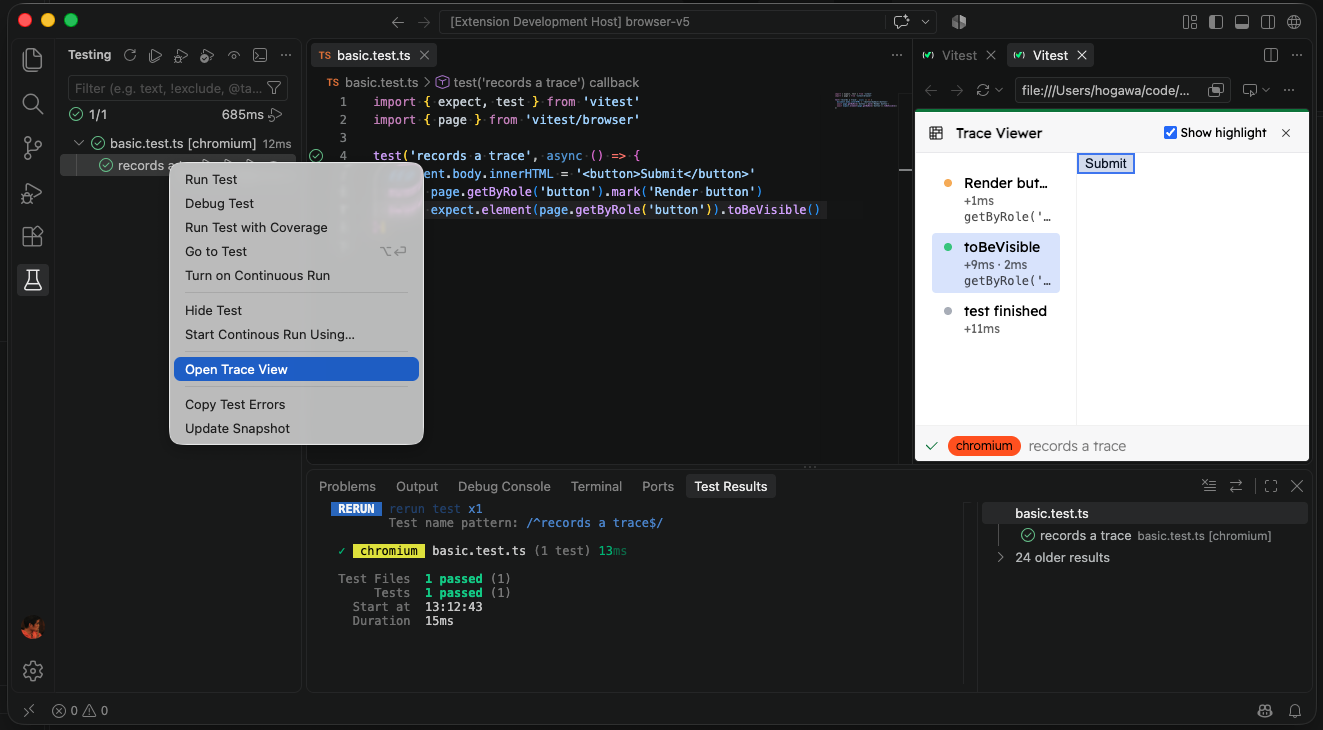
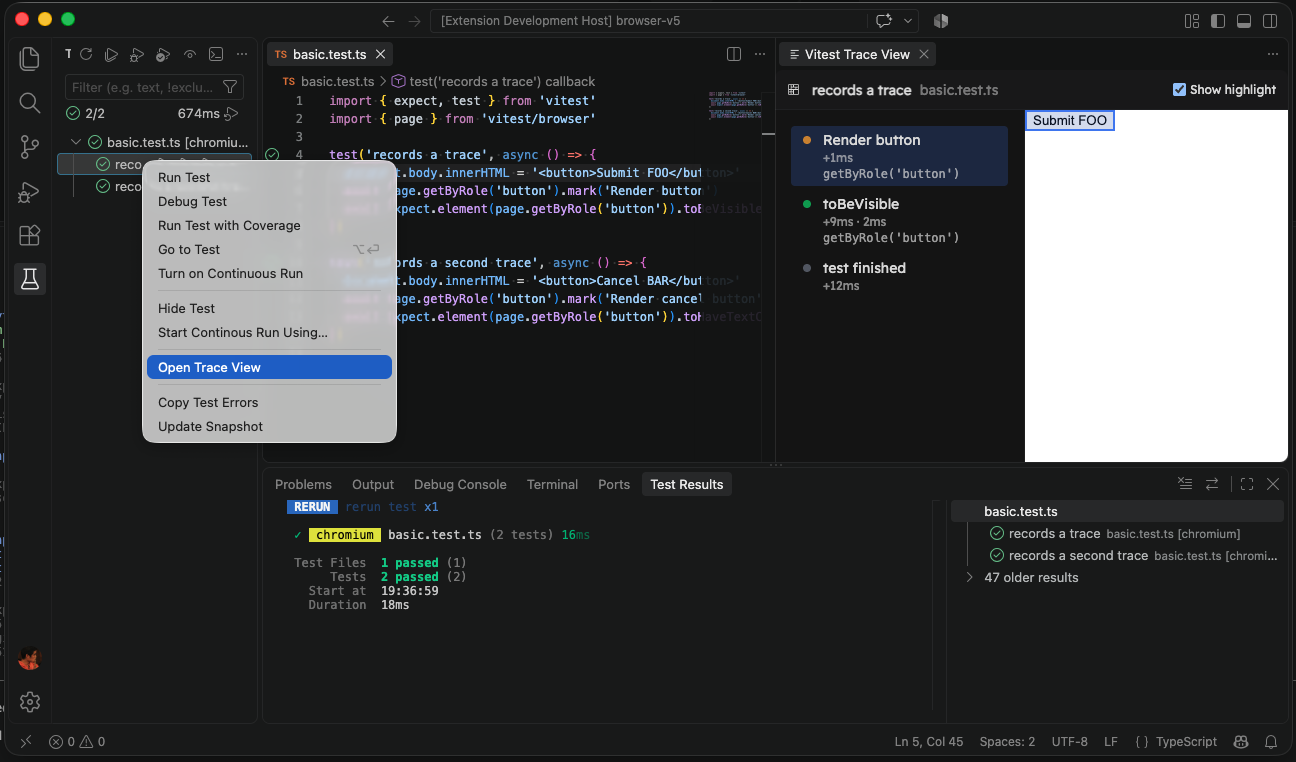
feat: open trace view in extension managed webview  (#819)
* feat: prototype reusable trace webview

* refactor: simplify trace webview navigation

* fix: preserve trace webview origin and allow Google Fonts

* fix: select available traces when refreshing the report

* fix: preserve trace step when refreshing the same test

* docs: simplify trace view description

* docs: remove trace webview prototype note

* fix: remove trace webview padding

* fix: restore light trace background

* feat: use focused trace layout

* docs: update trace view screenshot

* fix: preserve trace attempt on refresh

* refactor: extract trace webview HTML transform

* refactor: build trace selection hash directly

* refactor: remove trace metadata cache busting

* docs: clarify trace metadata URL comment

* docs: clarify trace asset URL comment

* refactor: extract trace webview CSP string

* refactor: inline webview CSP source

* refactor: extract trace webview CSS string

* refactor: extract trace webview bootstrap

* nit

* nit

* refactor: reload webview when opening traces

* refactor: name debounced trace refresh

* refactor: simplify trace hash serialization

* refactor: clarify trace view URL hash names

* refactor: inline trace URL hash serialization

* nit

* refactor: separate trace reconciliation from refresh

* refactor: reconcile trace target on results update

* refactor: type trace selection message

* refactor: type trace message receiver

* refactor: remove trace message payload validation

* nit
[…]

diff --git a/packages/extension/src/traceView.ts b/packages/extension/src/traceView.ts
@@ -1,5 +1,6 @@
 import type { RunnerTask, RunnerTestFile } from 'vitest'
 import type { TestTree } from './testTree'
+import { randomBytes } from 'node:crypto'
 import * as vscode from 'vscode'
 
 interface TraceViewTarget {
@@ -9,8 +10,32 @@ interface TraceViewTarget {
   testId: string
 }
 
+type TraceSelectionMessage = {
+  type: 'traceSelection'
+  revision: number
+  testId: string | null
+  traceAttempt: string | null
+  traceStep: number
+}
+
+interface TraceViewState {
+  panel: vscode.WebviewPanel
+  target: TraceViewTarget
+  watcher: vscode.FileSystemWatcher
+  traceAttempt?: string
+  traceStep: number
+  refreshTimer?: ReturnType<typeof setTimeout>
+}
+
 export class TraceViewManager {
   private targets = new Map<vscode.TestItem, TraceViewTarget>()
+  private viewState?: TraceViewState
+  // Invalidate older documents on refresh, target changes, and panel disposal.
+  private revision = 0
+
+  dispose() {
+    this.viewState?.panel.dispose()
+  }
 
   clear() {
     this.targets.clear()
@@ -18,13 +43,38 @@ export class TraceViewManager {
   }
 
   async update(apiId: string, reportPath: string, files: RunnerTestFile[], tree: TestTree) {
+    // Remove Open Trace View actions from the previous run of this process.
     for (const [item, target] of this.targets) {
       if (target.apiId === apiId) {
         this.targets.delete(item)
       }
     }
 
-    for (const target of findTraceViewTargets(apiId, reportPath, files)) {
+    // Keep the selected test when available, otherwise follow the first traced test.
+    // HTML report file writes trigger the reload.
+    const targets = findTraceViewTargets(apiId, reportPath, files)
+    const viewState = this.viewState
+    const target =
+      targets.find(
+        (target) =>
+          target.apiId === viewState?.target.apiId && target.testId === viewState.target.testId,
+      ) ?? targets[0]
+    if (viewState && target) {
+      if (viewState.target.reportPath !== target.reportPath) {
+        clearTimeout(viewState.refreshTimer)
+        viewState.watcher.dispose()
+        viewState.watcher = this.watchReport(target.reportPath)
+      }
+      if (viewState.target.apiId !== target.apiId || viewState.target.testId !== target.testId) {
+        this.revision++
+        viewState.target = target
+        viewState.traceAttempt = undefined
+        viewState.traceStep = 0
+      }
+    }
+
+    // Register Open Trace View actions for the latest results.
+    for (const target of targets) {
       const item = tree.getTestItemByTaskId(target.testId)
       if (item) {
         this.targets.set(item, target)
@@ -43,7 +93,9 @@ export class TraceViewManager {
   }
 
   async open(testItem: vscode.TestItem) {
-    const target = this.targets.get(testItem)!
+    // Resolve the requested test and check that its report exists.
+    const target = this.targets.get(testItem)
+    if (!target) return
 
     const reportUri = vscode.Uri.file(target.reportPath)
     try {
@@ -55,16 +107,105 @@ export class TraceViewManager {
       return
     }
 
-    const commands = await vscode.commands.getCommands(true)
-    const url = createTraceViewUrl(target)
-    // The Integrated Browser command is internal; follow Simple Browser's feature detection before using it.
-    // https://github.com/microsoft/vscode/blob/008427a901bf4aa79b47f175ccc8da1731750f78/extensions/simple-browser/src/extension.ts#L15-L35
-    if (commands.includes('workbench.action.browser.open')) {
-      await vscode.commands.executeCommand('workbench.action.browser.open', url)
+    // Create the panel and its listeners on the first open.
+    let viewState = this.viewState
+    if (!viewState) {
+      const panel = vscode.window.createWebviewPanel(
+        'vitest.traceView',
+        'Vitest Trace View',
+        { viewColumn: vscode.ViewColumn.Beside, preserveFocus: true },
+        { enableScripts: true, retainContextWhenHidden: true },
+      )
+      viewState = {
+        panel,
+        target,
+        watcher: this.watchReport(target.reportPath),
+        traceStep: 0,
+      }
+      this.viewState = viewState
+      // Remember attempt and step changes for the next report reload.
+      panel.webview.onDidReceiveMessage((message: TraceSelectionMessage) => {
+        const viewState = this.viewState
+        if (viewState && message.type === 'traceSelection' && message.revision === this.revision) {
+          viewState.traceAttempt = message.traceAttempt ?? undefined
+          viewState.traceStep = message.traceStep
+        }
+      })
+      // Release the watcher and pending reload when the panel closes.
+      panel.onDidDispose(() => {
+        const viewState = this.viewState
+        if (viewState?.panel !== panel) return
+        viewState.watcher.dispose()
+        clearTimeout(viewState.refreshTimer)
+        this.viewState = undefined
+        this.revision++
+      })
     } else {
-      // TODO: Support a single-file fallback because external browsers may block file:// metadata requests.
-      await vscode.env.openExternal(vscode.Uri.parse(url))
+      // Reuse the panel for the requested test with its initial attempt and step.
+      clearTimeout(viewState.refreshTimer)
+      viewState.watcher.dispose()
+      viewState.watcher = this.watchReport(target.reportPath)
+      viewState.target = target
+      viewState.traceAttempt = undefined
+      viewState.traceStep = 0
     }
+    // Explicit opens load immediately. Later report changes reload through the watcher.
+    viewState.panel.reveal(undefined, true)
+    await this.refresh()
+  }
+
+  private watchReport(reportPath: string) {
+    const watcher = vscode.workspace.createFileSystemWatcher(
+      new vscode.RelativePattern(
+        vscode.Uri.joinPath(vscode.Uri.file(reportPath), '..'),
+        '{index.html,ui/html.meta.json.gz}',
+      ),
+    )
+    const debouncedRefresh = () => {
+      const viewState = this.viewState
+      if (viewState?.watcher !== watcher) return
+      clearTimeout(viewState.refreshTimer)
+      viewState.refreshTimer = setTimeout(() => void this.refresh(), 150)
+    }
+    watcher.onDidChange(debouncedRefresh)
+    watcher.onDidCreate(debouncedRefresh)
+    return watcher
+  }
+
+  private async refresh() {
+    // Capture the active view and invalidate older loads.
+    const viewState = this.viewState
+    if (!viewState) return
+    const { panel, target } = viewState
+    const revision = ++this.revision
+
+    // Restore the current test, attempt, and step in the new document.
+    const traceViewUrlHash = createTraceViewUrlHash(
+      target,
+      viewState.traceStep,
+      viewState.traceAttempt,
+    )
+    const reportUri = vscode.Uri.file(target.reportPath)
+    // Read the generated report and discard it if the view changed while loading.
+    let reportHtml: Uint8Array
+    try {
+      reportHtml = await vscode.workspace.fs.readFile(reportUri)
+    } catch (error) {
+      await vscode.window.showWarningMessage(`Failed to load Vitest trace report: ${String(error)}`)
+      return
+    }
+    if (revision !== this.revision) return
+
+    // Adapt report resources and bootstrap code for the webview.
+    const directory = vscode.Uri.joinPath(reportUri, '..')
+    panel.webview.options = { enableScripts: true, localResourceRoots: [directory] }
+    panel.webview.html = transformTraceViewHtml(
+      Buffer.from(reportHtml).toString('utf8'),
+      panel.webview,
+      directory,
+      traceViewUrlHash,
+      revision,
+    )
   }
 }
 
@@ -94,13 +235,102 @@ function findTraceViewTargets(
   return targets
 }
 
-function createTraceViewUrl(target: TraceViewTarget) {
+function createTraceViewUrlHash(target: TraceViewTarget, traceStep = 0, traceAttempt?: string) {
   // https://github.com/vitest-dev/vitest/blob/decfeb61c71a93372f84b6d43893df86a1756308/packages/ui/client/composables/params.ts#L3-L24
   const params = new URLSearchParams({
     file: target.fileId,
+    layout: 'trace',
     view: 'editor',
     test: target.testId,
-    traceStep: '0',
+    traceStep: String(traceStep),
   })
-  return `${vscode.Uri.file(target.reportPath).toString(true)}#/?${params}`
+  if (traceAttempt) {
+    params.set('traceAttempt', traceAttempt)
+  }
+  return `/?${params}`
+}
+
+function transformTraceViewHtml(
+  html: string,
+  webview: vscode.Webview,
+  directory: vscode.Uri,
+  traceViewUrlHash: string,
+  revision: number,
+) {
+  const base = `${webview.asWebviewUri(directory).toString()}/`
+  const nonce = randomBytes(16).toString('hex')
+  const csp = [
+    `default-src 'none'`,
+    `script-src ${webview.cspSource} 'nonce-${nonce}'`,
+    `style-src ${webview.cspSource} https://fonts.googleapis.com 'unsafe-inline'`,
+    `img-src ${webview.cspSource} data: blob: https:`,
+    `font-src ${webview.cspSource} data: https:`,
+    `connect-src ${webview.cspSource}`,
+    `frame-src 'self' blob: data:;`,
+  ].join('; ')
+  // Resolve metadata from the report directory instead of the webview URL.
+  const metadata = webview.asWebviewUri(vscode.Uri.joinPath(directory, 'ui', 'html.meta.json.gz'))
+  html = html.replace(
+    /new URL\("\.\/ui\/html\.meta\.json\.gz", window\.location\.href\)/g,
+    JSON.stringify(metadata.toString()),
+  )
+  // Resolve relative asset URLs from the report directory.
+  html = html.replace(/<(script|link|img|source)\b[^>]*>/gi, (tag) =>
+    tag.replace(/(\s)(src|href)\s*=\s*(['"])(.*?)\3/gi, (attribute, space, name, quote, value) => {
+      if (!value || /^(?:[a-z][a-z\d+.-]*:|\/\/|#)/i.test(value)) return attribute
+      const url = new URL(value.replace(/&amp;/g, '&'), base).href
+      return `${space}${name}=${quote}${url.replace(/&/g, '&amp;').replace(/"/g, '&quot;').replace(/'/g, '&#39;')}${quote}`
+    }),
+  )
+  html = html.replace(/<script\b/g, `<script nonce="${nonce}"`)
+  html = html.replace(
+    /<head\b[^>]*>/i,
+    `$&
+    <meta http-equiv="Content-Security-Policy" content="${csp}">
+    <style>${TRACE_VIEW_CSS}</style>
+    <script nonce="${nonce}">
+      (${initializeTraceView.toString()})(acquireVsCodeApi(), window, ${JSON.stringify(traceViewUrlHash)}, ${revision});
+    </script>`,
+  )
+  return html
+}
+
+const TRACE_VIEW_CSS = `
+  body {
+    padding: 0;
+    color: var(--color-text);
+  }
+  html:not(.dark) {
+    background-color: white;
+    color-scheme: light;
+  }
+`
+
+function initializeTraceView(vscode: any, window: any, traceViewUrlHash: string, revision: number) {
+  const reportSelection = () => {
+    const params = new URLSearchParams(window.location.hash.split('?')[1])
+    const step = params.get('traceStep')
+    if (step !== null) {
+      vscode.postMessage({
+        type: 'traceSelection',
+        revision,
+        testId: params.get('test'),
+        traceAttempt: params.get('traceAttempt'),
+        traceStep: Number(step),
+      } satisfies TraceSelectionMessage)
+    }
+  }
+  // Vitest updates URL parameters through History, which does not
+  // emit hashchange events.
+  for (const method of ['replaceState', 'pushState']) {
+    const original = window.history[method]
+    window.history[method] = function (...args: any[]) {
+      const result = original.apply(this, args)
+      reportSelection()
+      return result
+    }
+  }
+  window.addEventListener('hashchange', reportSelection)
+  window.addEventListener('popstate', reportSelection)
+  window.location.hash = traceViewUrlHash
 }

diff --git a/samples/browser-v5/basic.test.ts b/samples/browser-v5/basic.test.ts
@@ -2,7 +2,13 @@ import { expect, test } from 'vitest'
 import { page } from 'vitest/browser'
 
 test('records a trace', async () => {
-  document.body.innerHTML = '<button>Submit</button>'
+  document.body.innerHTML = '<button>Submit FOO</button>'
   await page.getByRole('button').mark('Render button')
   await expect.element(page.getByRole('button')).toBeVisible()
+})
+
+test('records a second trace', async () => {
+  document.body.innerHTML = '<button>Cancel BAR</button>'
+  await page.getByRole('button').mark('Render cancel button')
+  await expect.element(page.getByRole('button')).toHaveTextContent('Cancel BAR')
 })

diff --git a/packages/extension/src/extension.ts b/packages/extension/src/extension.ts
@@ -646,6 +646,7 @@ class VitestExtension {
     this.testController.dispose()
     this.schemaProvider.dispose()
     this.importsBreakdownProvider.dispose()
+    this.traceViewManager.dispose()
     this.runProfiles.forEach((p) => p.dispose())
     this.runProfiles.clear()
     this.disposables.forEach((d) => d.dispose())

diff --git a/README.md b/README.md
@@ -153,7 +153,7 @@ export default defineConfig({
 })
 ```
 
-After running a browser test through the extension, right-click the test in the Testing view or its editor gutter icon and select **Open Trace View**. The extension opens the trace view of a selected test from the generated HTML report inside Visual Studio Code's Integrated Browser.
+After running a browser test through the extension, right-click the test in the Testing view or its editor gutter icon and select **Open Trace View**. The extension opens the trace view of the selected test from the generated HTML report in an editor tab.
 
 ![Vitest Trace View open in Visual Studio Code](./img/trace-view.png)
 
